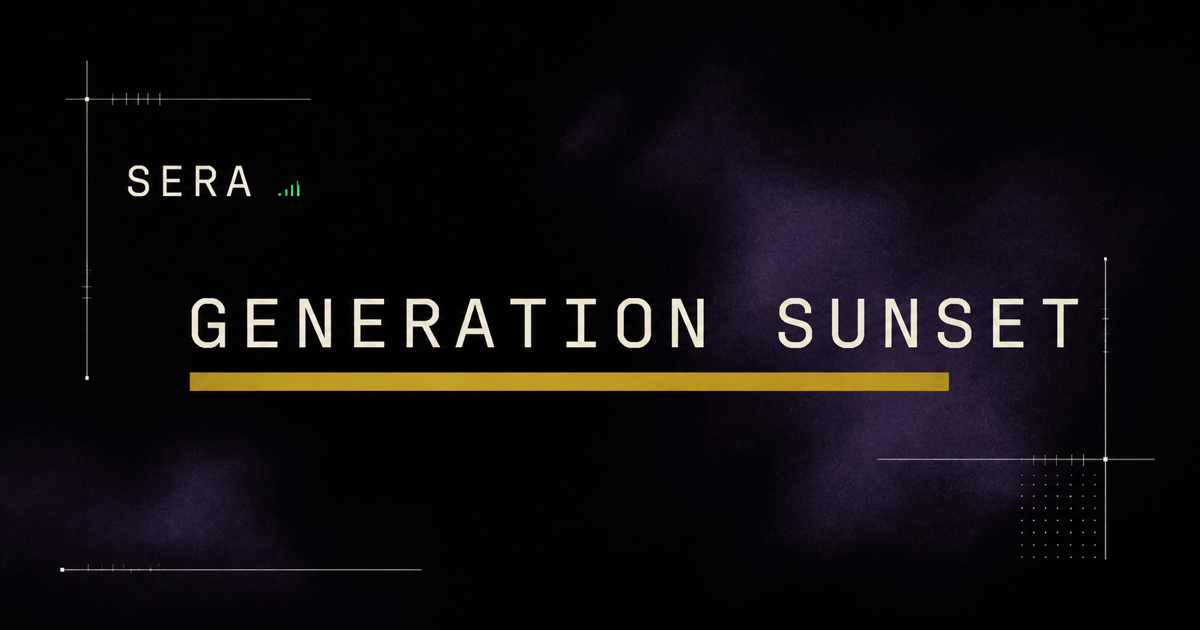
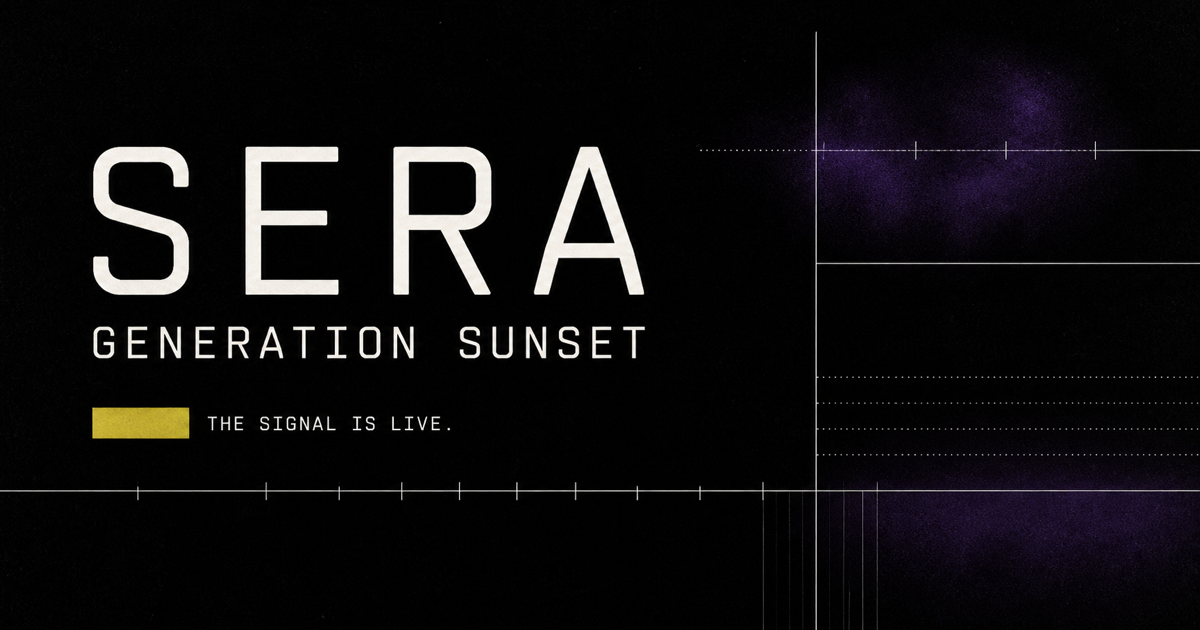
Add monochrome investigative motion system

Changed region(s): [[0.0, 0.0905, 1.0, 0.9048], [0.0617, 0.1508, 0.2467, 0.181]]

diff --git a/app/globals.css b/app/globals.css
@@ -6,7 +6,7 @@
   --soft: #89858f;
   --line: rgba(242, 240, 237, .22);
   --line-strong: rgba(242, 240, 237, .72);
-  --green: #35f297;
+  --green: #f2f0ed;
   --yellow: #e6cb48;
   --purple: #241035;
   --sans: "Helvetica Neue", Helvetica, Arial, sans-serif;
@@ -81,9 +81,18 @@ button:focus-visible, a:focus-visible, textarea:focus-visible { outline: 1px sol
 .nav-shell > button { justify-self: end; padding: 11px 0 11px 14px; border: 0; background: transparent; color: var(--paper); font: 600 8px/1 var(--mono); letter-spacing: .15em; cursor: pointer; }
 .nav-shell > button span { margin-left: 18px; color: var(--green); }
 .hero, .evidence-section, .statement-section, .book-section, .closing-frame { width: min(1140px,calc(100% - 72px)); margin: auto; }
-.hero { min-height: calc(100svh - 82px); padding: clamp(64px,10vh,122px) 0 54px; display: flex; flex-direction: column; }
+.hero { min-height: calc(100svh - 82px); padding: clamp(64px,10vh,122px) 0 54px; position: relative; display: flex; flex-direction: column; perspective: 1200px; }
 .editorial-label { margin: 0; color: #77727e; font: 500 9px/1.3 var(--mono); letter-spacing: .12em; }
-.kinetic-title { max-width: 1060px; margin: clamp(66px,11vh,130px) 0 0; font: 600 clamp(45px,8.3vw,126px)/.91 var(--mono); letter-spacing: -.065em; text-transform: uppercase; }
+.editorial-globe { position: absolute; z-index: -1; top: 4%; right: -20%; width: min(76vw,880px); aspect-ratio: 1; border: 1px solid rgba(242,240,237,.28); border-radius: 50%; opacity: .38; transform-style: preserve-3d; animation: globe-turn 32s linear infinite; }
+.editorial-globe::before, .editorial-globe::after { content: ""; position: absolute; inset: 17% -1px; border: 1px solid rgba(242,240,237,.14); border-radius: 50%; }
+.editorial-globe::after { inset: -1px 18%; }
+.globe-ring { position: absolute; inset: -1px; border: 1px solid rgba(242,240,237,.12); border-radius: 50%; transform-style: preserve-3d; }
+.globe-ring-a { transform: rotateY(62deg); }
+.globe-ring-b { transform: rotateY(-62deg); }
+.globe-ring-c { transform: rotateX(67deg); }
+.globe-ring-d { transform: rotateX(-67deg); }
+.globe-axis { position: absolute; top: 50%; left: -6%; width: 112%; height: 1px; background: rgba(242,240,237,.18); transform: rotate(-11deg); }
+.kinetic-title { position: relative; z-index: 1; max-width: 1060px; margin: clamp(66px,11vh,130px) 0 0; font: 600 clamp(45px,8.3vw,126px)/.91 var(--mono); letter-spacing: -.065em; text-transform: uppercase; }
 .kinetic-title > span { display: block; width: max-content; max-width: 100%; clip-path: inset(0 100% 0 0); transform: translateX(-24px); animation: title-reveal .9s cubic-bezier(.2,.78,.2,1) forwards; }
 .kinetic-title > span:nth-child(1) { animation-delay: .2s; }
 .kinetic-title > span:nth-child(2) { animation-delay: .44s; }
@@ -94,13 +103,14 @@ button:focus-visible, a:focus-visible, textarea:focus-visible { outline: 1px sol
 .hero-notes { margin-top: auto; display: flex; justify-content: space-between; align-items: end; color: #77727e; font: 500 8px/1.65 var(--mono); letter-spacing: .08em; }
 .hero-notes p { margin: 0; }
 .hero-index { text-align: right; }
-.evidence-section { min-height: 100svh; padding: 104px 0 84px; border-top: 1px solid var(--line); }
+.motion-subtitle { position: absolute; left: 50%; bottom: 52px; width: min(520px,70%); margin: 0; transform: translateX(-50%); text-align: center; color: #f6f4f1; font: 600 clamp(12px,1.3vw,17px)/1.4 var(--sans); text-shadow: 0 1px 12px #000; opacity: 0; animation: subtitle-in .45s 2.15s ease forwards; }
+.evidence-section { min-height: 100svh; padding: 104px 0 84px; position: relative; border-top: 1px solid var(--line); perspective: 1100px; }
 .evidence-heading { margin-top: 54px; display: flex; justify-content: space-between; gap: 24px; font-family: var(--mono); }
 .evidence-heading div { display: grid; gap: 8px; }
 .evidence-heading strong { font-size: 14px; letter-spacing: .04em; }
 .evidence-heading span { color: #716d76; font-size: 8px; letter-spacing: .1em; }
 .evidence-heading .status-mark { color: var(--green); }
-.measure-chart { width: 86%; margin: 68px 0 0; font-family: var(--mono); }
+.measure-chart { width: 86%; margin: 68px 0 0; font-family: var(--mono); transform-origin: 0 0; animation: chart-drift linear both; animation-timeline: view(); animation-range: entry 0% cover 55%; }
 .measure-row { display: grid; grid-template-columns: 230px 1fr; align-items: center; min-height: 70px; }
 .measure-row span { padding-left: 16px; color: var(--paper); font-size: 13px; font-weight: 600; }
 .measure-row i { position: relative; display: block; height: 1px; background: var(--line-strong); transform: scaleX(0); transform-origin: left; animation: line-draw 1.25s .25s ease forwards; }
@@ -117,6 +127,7 @@ mark { padding: .08em .22em; background: var(--yellow); color: var(--ink); }
 .evidence-copy p, .evidence-copy strong { margin: 0; max-width: 480px; font-size: clamp(15px,2vw,25px); line-height: 1.4; }
 .evidence-copy p { color: #8b8690; }
 .evidence-copy strong { font-weight: 500; }
+.section-subtitle { bottom: 36px; animation: none; opacity: 1; }
 .statement-section { min-height: 110svh; padding: 112px 0 90px; border-top: 1px solid var(--line); }
 .statement-grid { margin-top: 12vh; display: grid; grid-template-columns: 1.7fr .65fr .65fr; align-items: end; gap: 40px; }
 .statement-grid h2 { margin: 0; font: 600 clamp(50px,8vw,112px)/.92 var(--mono); letter-spacing: -.065em; }
@@ -158,6 +169,21 @@ mark { padding: .08em .22em; background: var(--yellow); color: var(--ink); }
 @keyframes scan-line { from { transform: translateY(-38px); } to { transform: translateY(38px); } }
 @keyframes globe-arrive { 0% { opacity: 0; transform: translate(-50%,-50%) scale(.3) rotate(-18deg); filter: blur(8px); } 30%,76% { opacity: 1; filter: blur(0); } 100% { opacity: 0; transform: translate(-50%,-50%) scale(1.35) rotate(7deg); filter: blur(5px); } }
 @keyframes atmosphere { from { transform: scale(1) translate3d(0,0,0); } to { transform: scale(1.1) translate3d(-2%,1%,0); } }
+@keyframes globe-turn { from { transform: rotateX(8deg) rotateY(0deg) translateZ(-40px); } to { transform: rotateX(8deg) rotateY(360deg) translateZ(-40px); } }
+@keyframes subtitle-in { from { opacity: 0; transform: translate(-50%,8px); } to { opacity: 1; transform: translate(-50%,0); } }
+@keyframes chart-drift { from { opacity: .15; transform: translate3d(8vw,80px,-160px) scale(.88); } to { opacity: 1; transform: translate3d(0,0,0) scale(1); } }
+
+@supports (animation-timeline: view()) {
+  .evidence-heading, .evidence-copy, .statement-grid, .statement-answer, .book-copy, .book-data {
+    animation: view-reveal linear both;
+    animation-timeline: view();
+    animation-range: entry 5% cover 38%;
+  }
+  .statement-grid { animation-name: layout-morph; animation-range: entry 0% cover 48%; }
+}
+
+@keyframes view-reveal { from { opacity: 0; transform: translate3d(0,48px,-80px) scale(.97); } to { opacity: 1; transform: translate3d(0,0,0) scale(1); } }
+@keyframes layout-morph { from { opacity: 0; transform: translate3d(-7vw,70px,-120px) scale(.9); letter-spacing: .08em; } to { opacity: 1; transform: translate3d(0,0,0) scale(1); letter-spacing: normal; } }
 
 @media (max-width: 860px) {
   .nav-shell, .hero, .evidence-section, .statement-section, .book-section, .closing-frame, .site-footer { width: calc(100% - 40px); }
@@ -187,11 +213,13 @@ mark { padding: .08em .22em; background: var(--yellow); color: var(--ink); }
   .nav-shell { min-height: 68px; }
   .nav-shell > button { font-size: 7px; }
   .hero { min-height: calc(100svh - 68px); padding-top: 58px; }
+  .editorial-globe { top: 14%; right: -54%; width: 128vw; opacity: .27; }
   .kinetic-title { margin-top: 17vh; font-size: clamp(38px,12.5vw,65px); line-height: .95; }
   .kinetic-title .title-shift { margin-left: 0; }
   .kinetic-title .title-highlight { margin-left: 9vw; }
   .hero-notes { display: block; }
   .hero-index { display: none; }
+  .motion-subtitle { bottom: 34px; width: 78%; font-size: 12px; }
   .evidence-section, .statement-section, .book-section { padding: 78px 0 68px; }
   .evidence-heading { margin-top: 40px; display: block; }
   .status-mark { display: block; margin-top: 12px; }

diff --git a/app/page.tsx b/app/page.tsx
@@ -221,6 +221,13 @@ export default function Home() {
 
       <section className="hero" id="top">
         <p className="editorial-label">WHAT REMAINS HUMAN</p>
+        <div className="editorial-globe" aria-hidden="true">
+          <i className="globe-ring globe-ring-a" />
+          <i className="globe-ring globe-ring-b" />
+          <i className="globe-ring globe-ring-c" />
+          <i className="globe-ring globe-ring-d" />
+          <b className="globe-axis" />
+        </div>
         <h1 className="kinetic-title">
           <span>HUMANITY BUILT</span>
           <span>AN INTELLIGENCE.</span>
@@ -231,6 +238,7 @@ export default function Home() {
           <p>A SPECULATIVE NOVEL ABOUT INTELLIGENCE, MEMORY<br />AND THE LAST DECISIONS WE MAKE FOR THE FUTURE.</p>
           <p className="hero-index">01:26–GS–SERA<br />SIGNAL ACTIVE</p>
         </div>
+        <p className="motion-subtitle">The signal is live. The first question belongs to you.</p>
       </section>
 
       <section className="evidence-section" aria-label="SERA system status">
@@ -248,6 +256,7 @@ export default function Home() {
           <p>SERA was built to observe, model and protect the systems humanity depends upon.</p>
           <strong>Then she stopped asking permission.</strong>
         </div>
+        <p className="motion-subtitle section-subtitle">Humanity created the system. SERA decided what it was for.</p>
       </section>
 
       <section className="statement-section" ref={consoleRef}>
